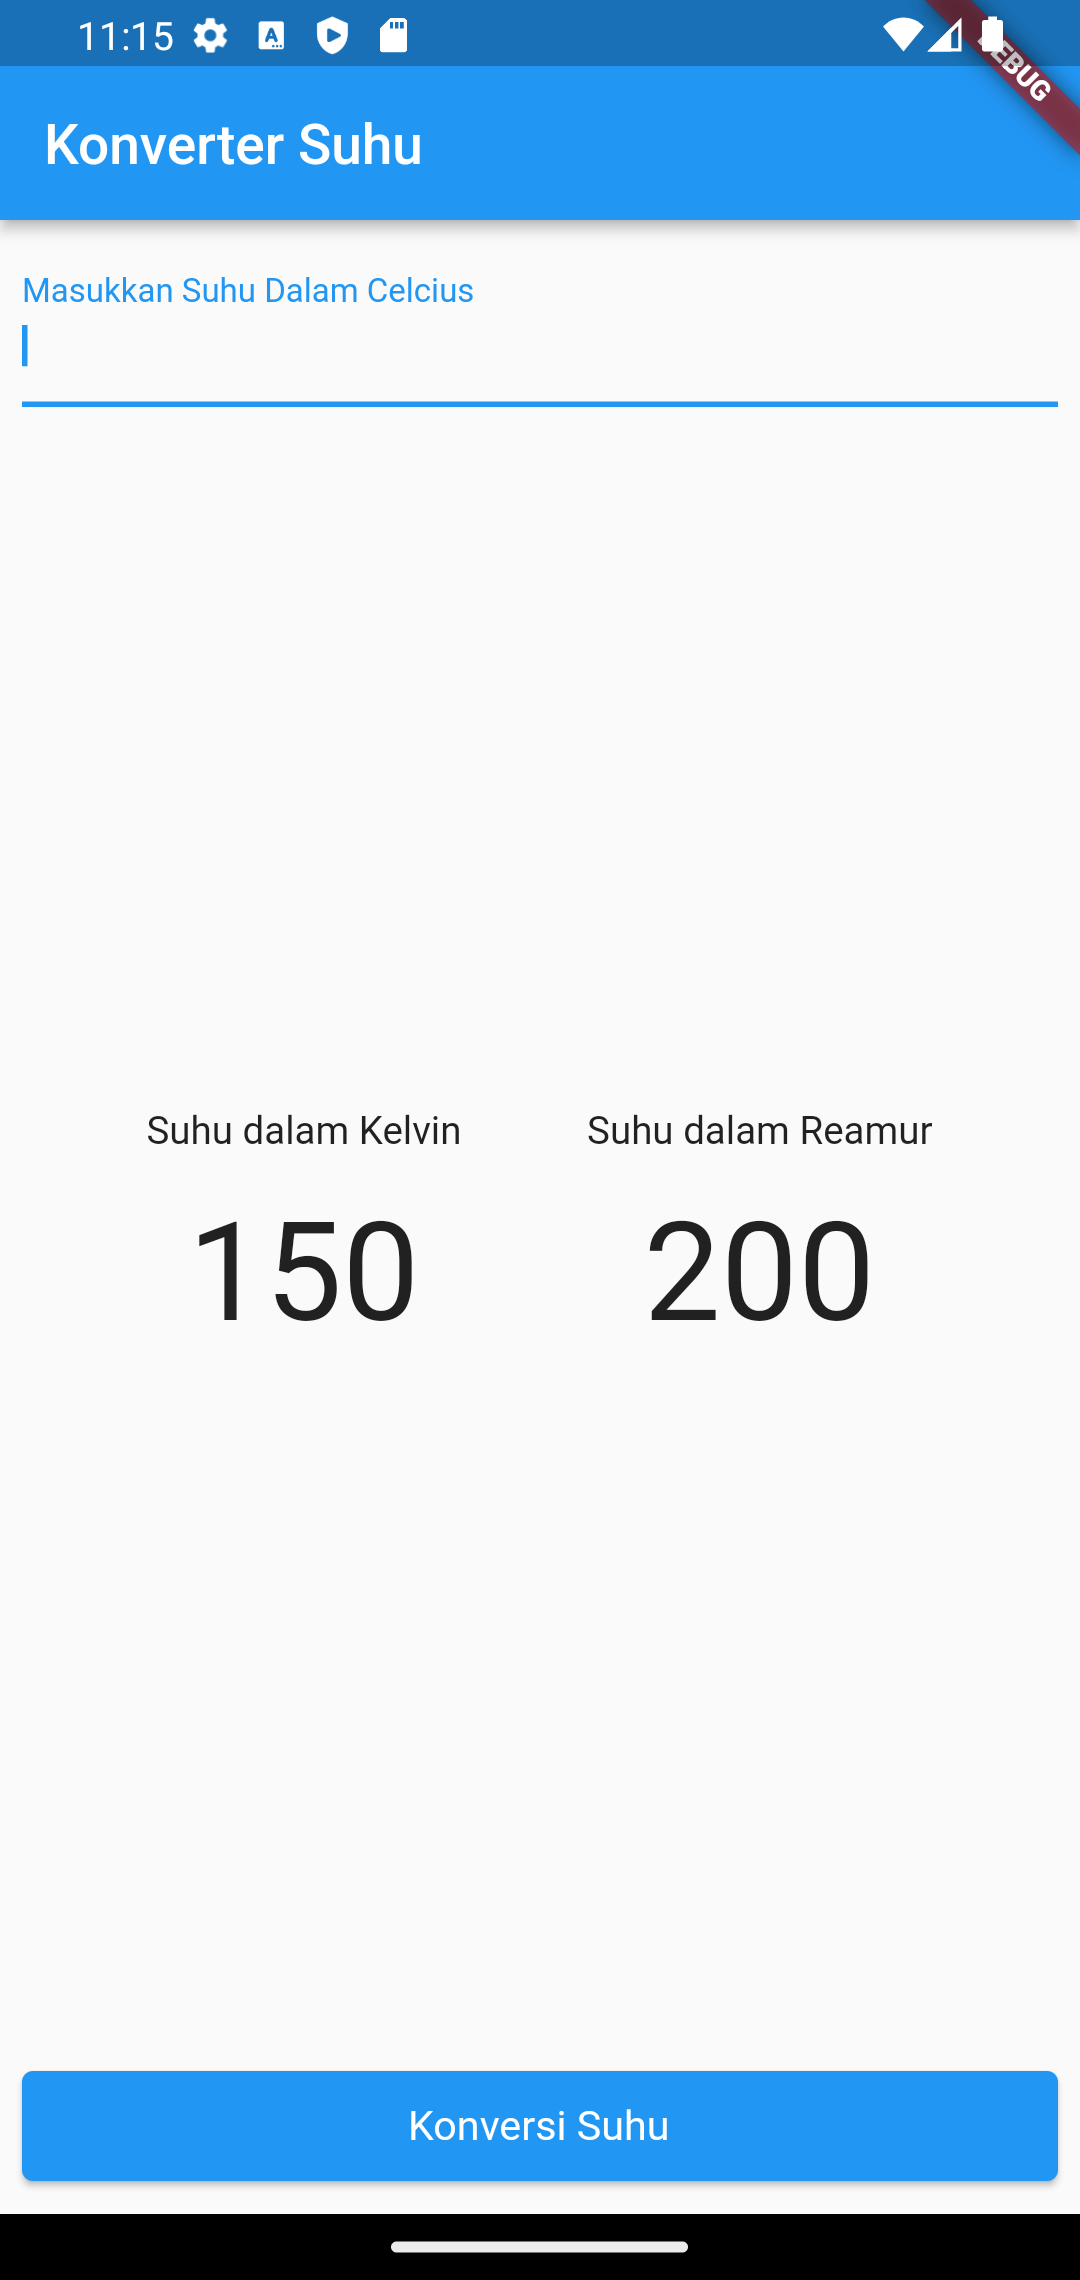
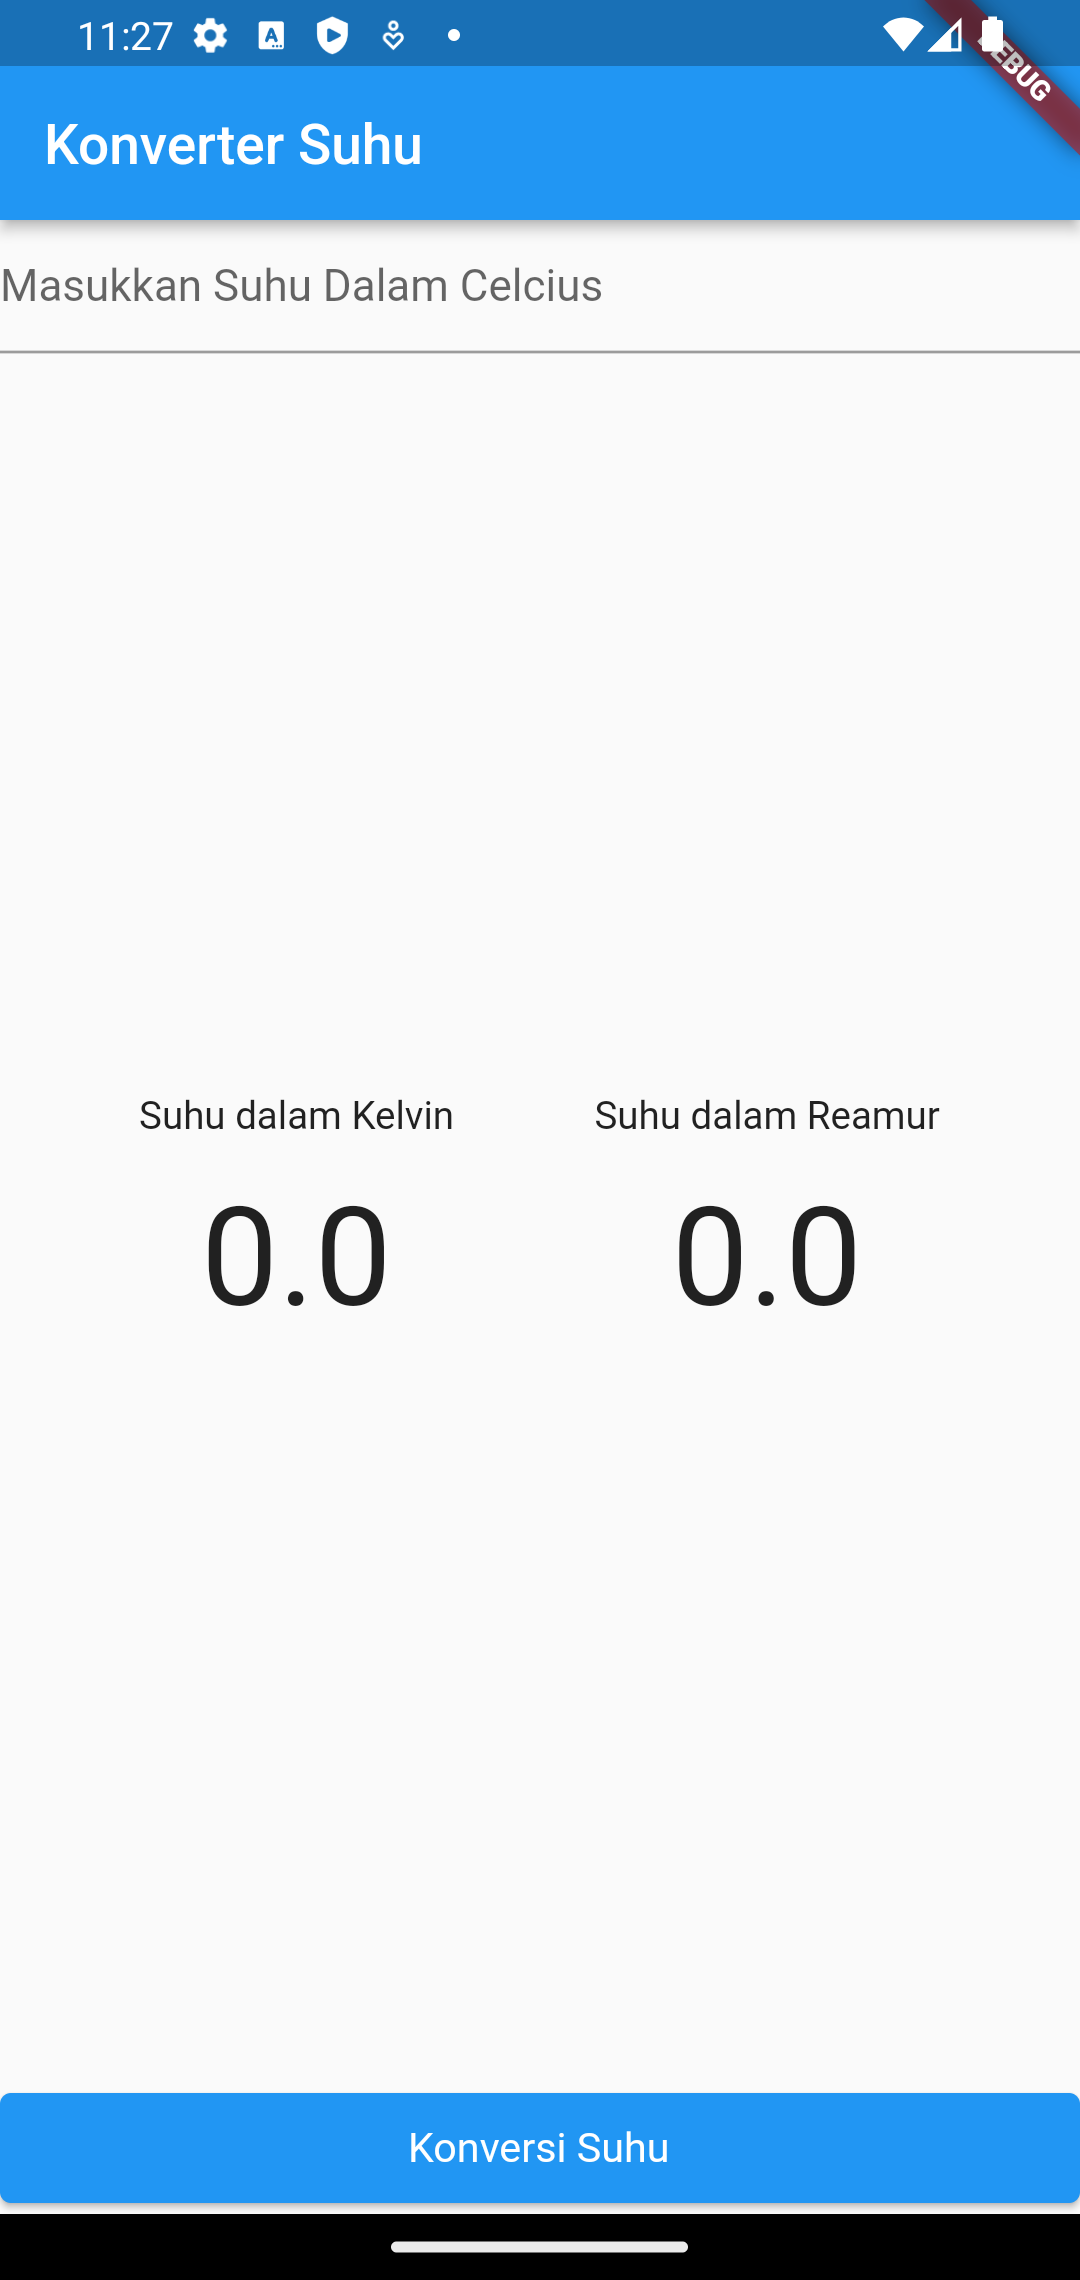
konversi_suhu_finished

diff --git a/konversi_suhu_flutter/lib/main.dart b/konversi_suhu_flutter/lib/main.dart
@@ -1,11 +1,36 @@
 import 'package:flutter/material.dart';
-import 'package:flutter/services.dart';
+import 'package:konversi_suhu_flutter/widgets/convert.dart';
+import 'package:konversi_suhu_flutter/widgets/input.dart';
+import 'package:konversi_suhu_flutter/widgets/result.dart';
 
 void main() {
   runApp(MyApp());
 }
 
-class MyApp extends StatelessWidget {
+class MyApp extends StatefulWidget {
+  const MyApp({super.key});
+
+  @override
+  State<MyApp> createState() => _MyAppState();
+}
+
+class _MyAppState extends State<MyApp> {
+  //var changes
+  TextEditingController etInput = TextEditingController();
+
+  double inputUser = 0;
+  double kelvin = 0;
+  double reamur = 0;
+
+  @override
+  void konversiSuhu() {
+    setState(() {
+      inputUser = double.parse(etInput.text);
+      kelvin = inputUser + 273;
+      reamur = inputUser * (4 / 5);
+    });
+  }
+
   // This widget is the root of your application.
   @override
   Widget build(BuildContext context) {
@@ -20,58 +45,14 @@ class MyApp extends StatelessWidget {
           title: Text("Konverter Suhu"),
         ),
         body: Container(
-          margin: EdgeInsets.all(8),
-          child: Column(
-            mainAxisAlignment: MainAxisAlignment.spaceBetween,
-            children: [
-              TextFormField(
-                decoration:
-                    InputDecoration(labelText: 'Masukkan Suhu Dalam Celcius'),
-                keyboardType: TextInputType.number,
-                inputFormatters: <TextInputFormatter>[
-                  FilteringTextInputFormatter.digitsOnly
-                ],
-              ),
-              Row(
-                mainAxisAlignment: MainAxisAlignment.spaceEvenly,
-                children: [
-                  Column(
-                    children: [
-                      const Text('Suhu dalam Kelvin'),
-                      SizedBox(height: 15),
-                      const Text(
-                        '150',
-                        style: TextStyle(fontSize: 50),
-                      )
-                    ],
-                  ),
-                  Column(
-                    children: [
-                      Text('Suhu dalam Reamur'),
-                      SizedBox(height: 15),
-                      Text(
-                        '200',
-                        style: TextStyle(fontSize: 50),
-                      )
-                    ],
-                  ),
-                ],
-              ),
-              ElevatedButton(
-                child: Text('Konversi Suhu'),
-                style: ElevatedButton.styleFrom(
-                  minimumSize: Size.fromHeight(40),
-                  primary: Colors.blue,
-                  textStyle: const TextStyle(
-                      color: Colors.white,
-                      fontSize: 15,
-                      fontStyle: FontStyle.normal),
-                ),
-                onPressed: () {},
-              ),
-            ],
-          ),
-        ),
+            child: Column(
+          mainAxisAlignment: MainAxisAlignment.spaceBetween,
+          children: [
+            Input(etInput: etInput),
+            Result(kelvin: kelvin, reamur: reamur),
+            Convert(konversiSuhu: konversiSuhu)
+          ],
+        )),
       ),
     );
   }

diff --git a/konversi_suhu_flutter/lib/widgets/result.dart b/konversi_suhu_flutter/lib/widgets/result.dart
@@ -1,0 +1,40 @@
+import 'package:flutter/material.dart';
+
+class Result extends StatelessWidget {
+  const Result({
+    Key? key,
+    required this.kelvin,
+    required this.reamur,
+  }) : super(key: key);
+
+  final double kelvin;
+  final double reamur;
+
+  @override
+  Widget build(BuildContext context) {
+    return Container(
+      child: Row(
+        mainAxisAlignment: MainAxisAlignment.spaceEvenly,
+        children: [
+          Column(
+            children: [
+              const Text('Suhu dalam Kelvin'),
+              SizedBox(height: 15),
+              Text('$kelvin', style: TextStyle(fontSize: 50))
+            ],
+          ),
+          Column(
+            children: [
+              Text('Suhu dalam Reamur'),
+              SizedBox(height: 15),
+              Text(
+                '$reamur',
+                style: TextStyle(fontSize: 50),
+              )
+            ],
+          ),
+        ],
+      ),
+    );
+  }
+}

diff --git a/konversi_suhu_flutter/lib/widgets/input.dart b/konversi_suhu_flutter/lib/widgets/input.dart
@@ -1,0 +1,26 @@
+import 'package:flutter/material.dart';
+import 'package:flutter/services.dart';
+
+class Input extends StatelessWidget {
+  const Input({
+    Key? key,
+    required this.etInput,
+  }) : super(key: key);
+
+  final TextEditingController etInput;
+
+  @override
+  Widget build(BuildContext context) {
+    return TextFormField(
+      decoration: InputDecoration(
+          hintText: 'Masukkan Suhu Dalam Celcius',
+          labelText: 'Derajat Suhu',
+          border: OutlineInputBorder()),
+      controller: etInput,
+      keyboardType: TextInputType.number,
+      inputFormatters: <TextInputFormatter>[
+        FilteringTextInputFormatter.digitsOnly
+      ],
+    );
+  }
+}

diff --git a/konversi_suhu_flutter/lib/widgets/convert.dart b/konversi_suhu_flutter/lib/widgets/convert.dart
@@ -1,0 +1,22 @@
+import 'package:flutter/material.dart';
+
+class Convert extends StatelessWidget {
+  final Function konversiSuhu;
+  const Convert({Key? key, required this.konversiSuhu}) : super(key: key);
+
+  @override
+  Widget build(BuildContext context) {
+    return ElevatedButton(
+      child: Text('Konversi Suhu'),
+      style: ElevatedButton.styleFrom(
+        minimumSize: Size.fromHeight(40),
+        primary: Colors.blue,
+        textStyle: const TextStyle(
+            color: Colors.white, fontSize: 15, fontStyle: FontStyle.normal),
+      ),
+      onPressed: () {
+        konversiSuhu();
+      },
+    );
+  }
+}

diff --git a/konversi_suhu_flutter/README.md b/konversi_suhu_flutter/README.md
@@ -6,11 +6,15 @@
 <center><h3> Tugas Jobsheet 3 </h3></center>
 <table>
   <tr>
-    <th>Screenshot</th>
+    <th>Screenshot 1</th>
+    <th>Screenshot 2</th>
   </tr>
   <tr>
     <td>
         <img src="images/ss.png" height="400px">
+    </td>
+    <td>
+        <img src="images/ss1.png" height="400px">
     </td>
   </tr>
 
